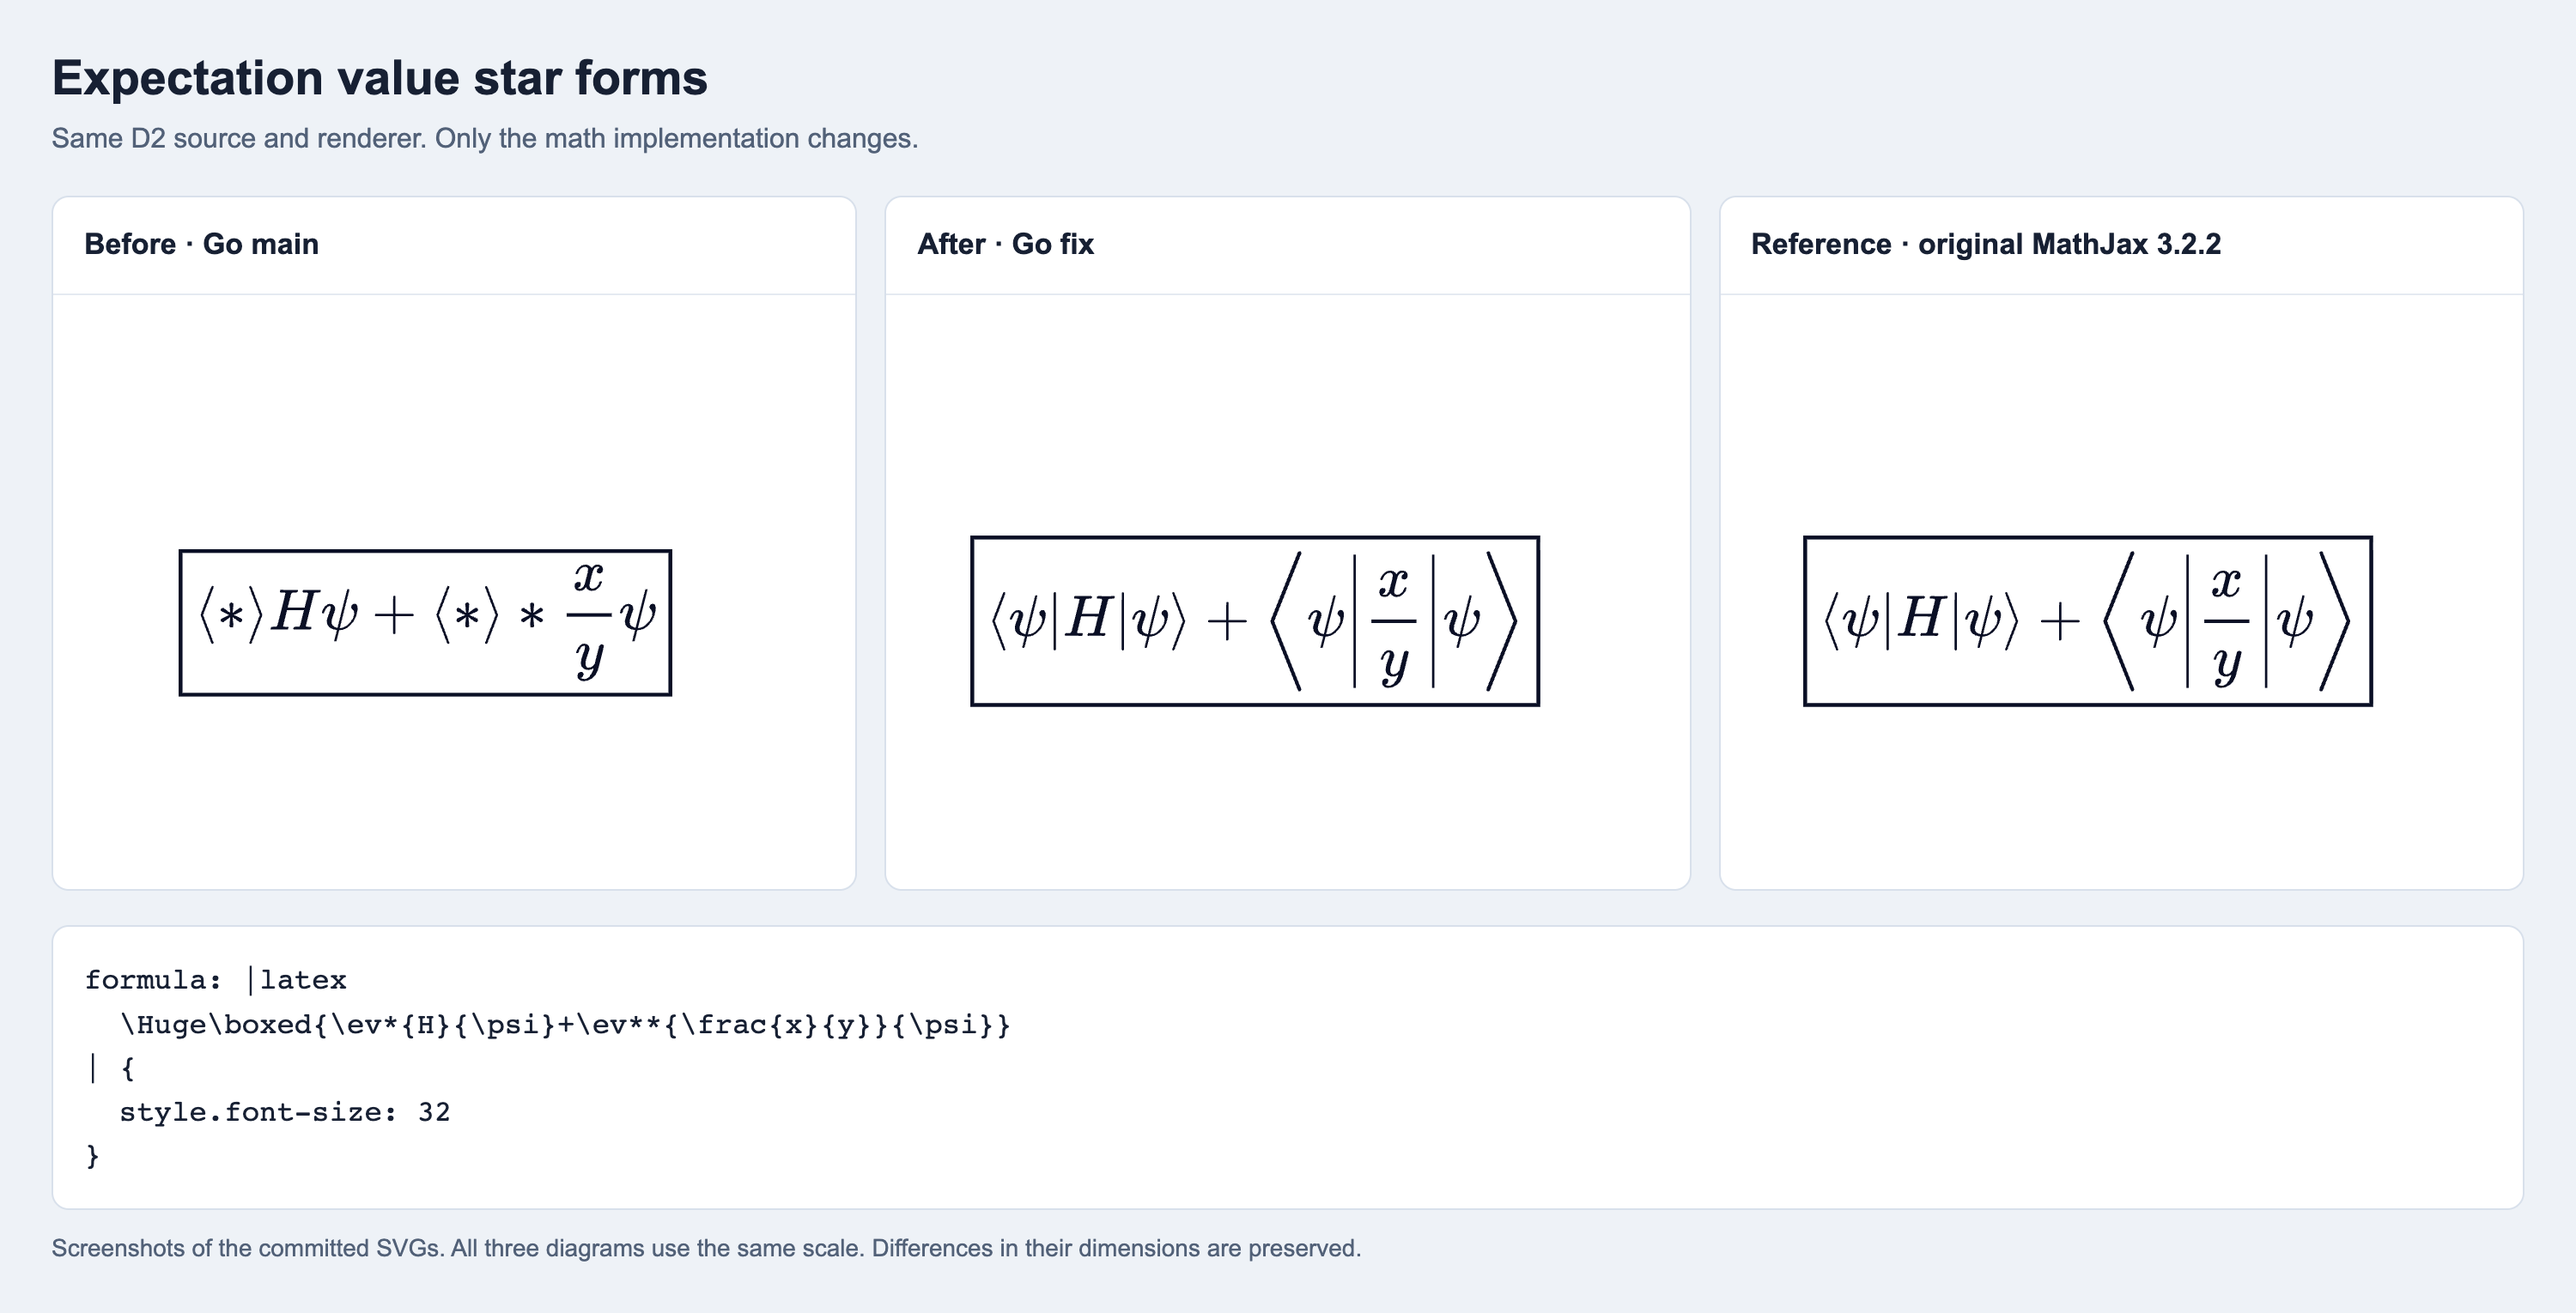
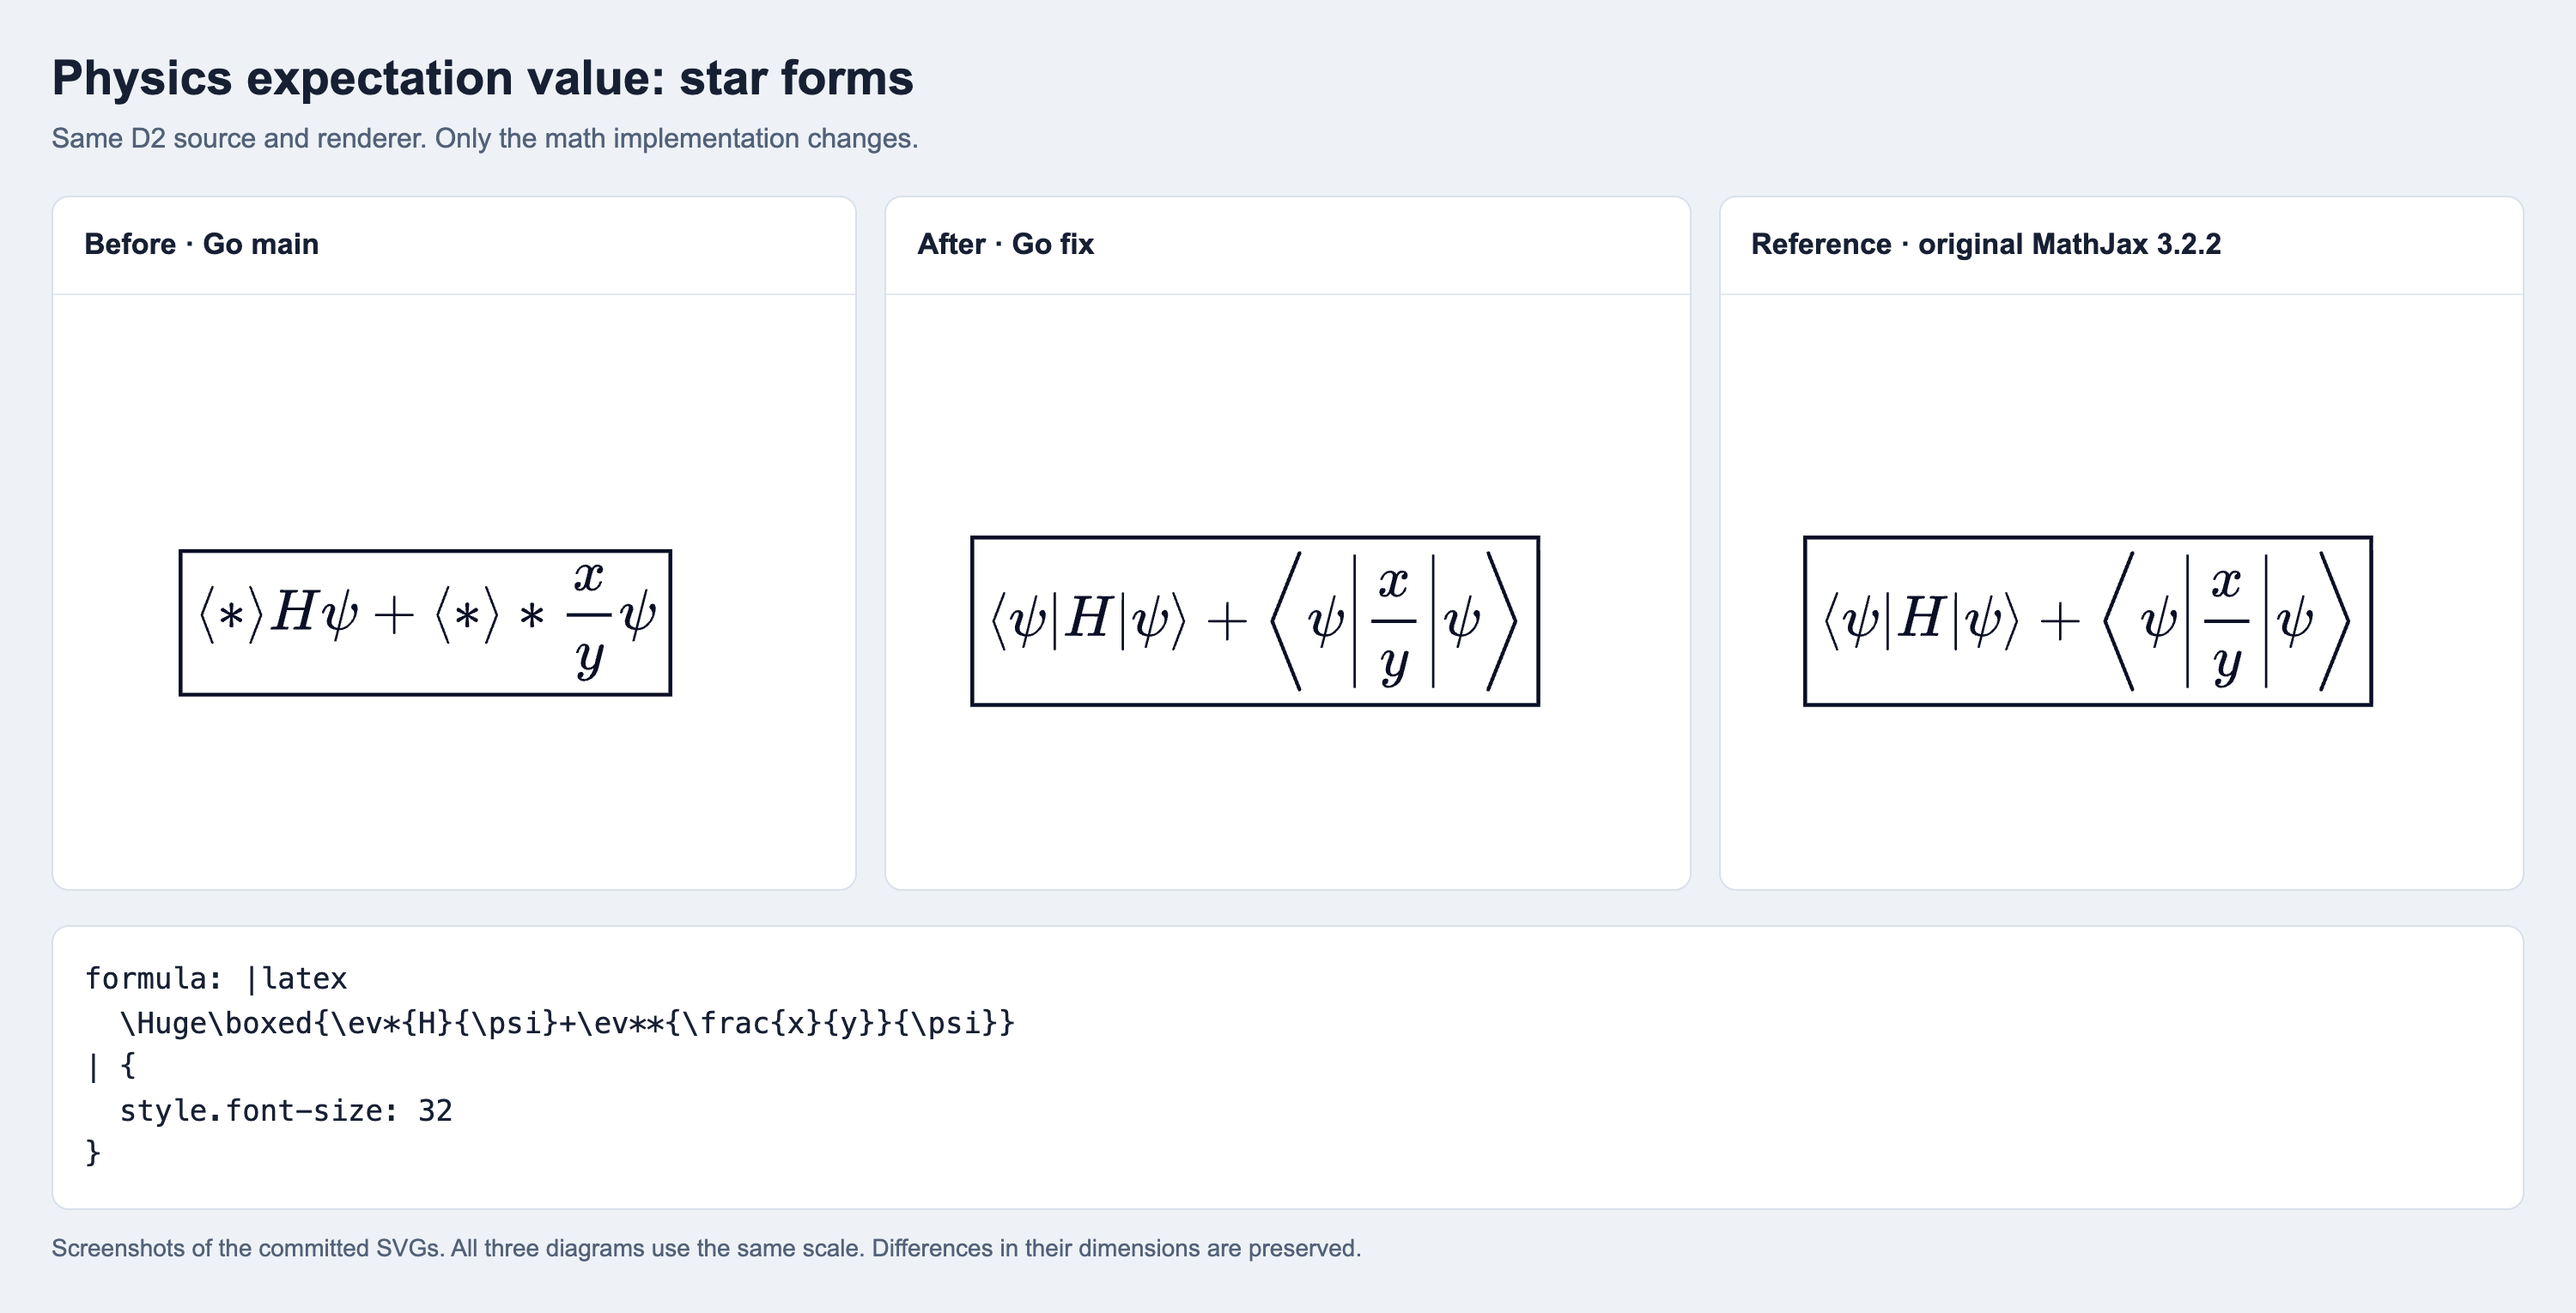
Bind expectation D2 evidence to the merged base
- sent from alixander's Codex

Changed region(s): [[0.031, 0.0307, 0.372, 0.0922], [0.031, 0.7373, 0.403, 0.7987], [0.031, 0.8294, 0.155, 0.8601]]

diff --git a/testdata/physics_expectation_README.md b/testdata/physics_expectation_README.md
@@ -38,7 +38,7 @@ All three gzip files regenerated byte-identically. `physics_expectation_inventor
 
 ## Validation and composition
 
-The compiled and independently reviewed source is `305d257f3043f313d4ec039aca37ac12f5f57ead`, internal tree `9d29ef93f3dd70e4f38ab620c515c533e1b8eb25`, initially based on the GetStar preview `fdf3c6524f045fc310f5bf1d203b490192394bec`. Actual main175 is now merged; its whole tree matches published GetStar head `3778159bd5b3db00cc3d2e666e6fa1aec02ac3d7`. Final actual175 rebase and full frozen/race/vet/WASM gates are pending; the new focused 1,796-input test passed on the preserved source.
+The compiled and independently reviewed source is `305d257f3043f313d4ec039aca37ac12f5f57ead`, internal tree `9d29ef93f3dd70e4f38ab620c515c533e1b8eb25`, initially based on the GetStar preview `fdf3c6524f045fc310f5bf1d203b490192394bec`. Actual main175 is now merged; its whole tree matches published GetStar head `3778159bd5b3db00cc3d2e666e6fa1aec02ac3d7`. The actual175 rebase preserves both source and fixture patches exactly; the internal tree remains unchanged. The new focused 1,796-input test passed on the preserved source; final full frozen/race/vet/WASM gates on the rebased checkout are pending. Both D2 witnesses were rebuilt and visually inspected again on the rebased public ancestor `611bf43bd835a7e25a53c20ad4ab820f4a2c0a52`, with actual main175 as the before revision. All 87 original-SVG checks passed again.
 
 Independent broader replay found four genuine complete-SVG fixes among 6,800 published residual inputs and 26 among 4,326 upstream inputs, with zero regressions or changed semantic raw outcomes. Eight cancel serialization controls were repeated 1,024 times and matched complete original XML, so their apparent fixes/regressions are excluded. One inherited unsupported-`enclose` control was repeated 128 times: baseline/candidate complete XML agrees, but the original error remains a raw mismatch. No normalized golden or parity promotion is used. The 5,621 shared controls and 802 runtime controls are unchanged.
 

diff --git a/testdata/parity/physics-expectation-stars/README.md b/testdata/parity/physics-expectation-stars/README.md
@@ -5,8 +5,8 @@ same `witness.d2`. Individual PNG screenshots and the unmodified SVGs are also
 included. Panels use one shared scale and preserve differences in the SVG dimensions. `after.svg` and `original.svg` are byte-identical.
 
 - D2 renderer: `01bc7ecdbdd04c13d6fe5df1967d2d9aa14ae579`.
-- Before mathjax-go: `3778159bd5b3db00cc3d2e666e6fa1aec02ac3d7`.
-- After mathjax-go code: `305d257f3043f313d4ec039aca37ac12f5f57ead` (plus these evidence files).
+- Before mathjax-go: `7e1dcaa182ca1d9756293f032b91f0ff5bad112a`.
+- After mathjax-go code: `611bf43bd835a7e25a53c20ad4ab820f4a2c0a52` (plus these evidence files).
 - Original: D2's frozen MathJax 3.2.2 assets, fetched from D2 commit
   `5666d9337c77a4803b9cd60cb1c5a24439d0f949`; SHA-256 values are in `manifest.json`
   and repository `PROVENANCE.md`.

diff --git a/testdata/parity/physics-expectation-state/README.md b/testdata/parity/physics-expectation-state/README.md
@@ -5,8 +5,8 @@ same `witness.d2`. Individual PNG screenshots and the unmodified SVGs are also
 included. Panels use one shared scale and preserve differences in the SVG dimensions. `after.svg` and `original.svg` are byte-identical.
 
 - D2 renderer: `01bc7ecdbdd04c13d6fe5df1967d2d9aa14ae579`.
-- Before mathjax-go: `3778159bd5b3db00cc3d2e666e6fa1aec02ac3d7`.
-- After mathjax-go code: `305d257f3043f313d4ec039aca37ac12f5f57ead` (plus these evidence files).
+- Before mathjax-go: `7e1dcaa182ca1d9756293f032b91f0ff5bad112a`.
+- After mathjax-go code: `611bf43bd835a7e25a53c20ad4ab820f4a2c0a52` (plus these evidence files).
 - Original: D2's frozen MathJax 3.2.2 assets, fetched from D2 commit
   `5666d9337c77a4803b9cd60cb1c5a24439d0f949`; SHA-256 values are in `manifest.json`
   and repository `PROVENANCE.md`.
